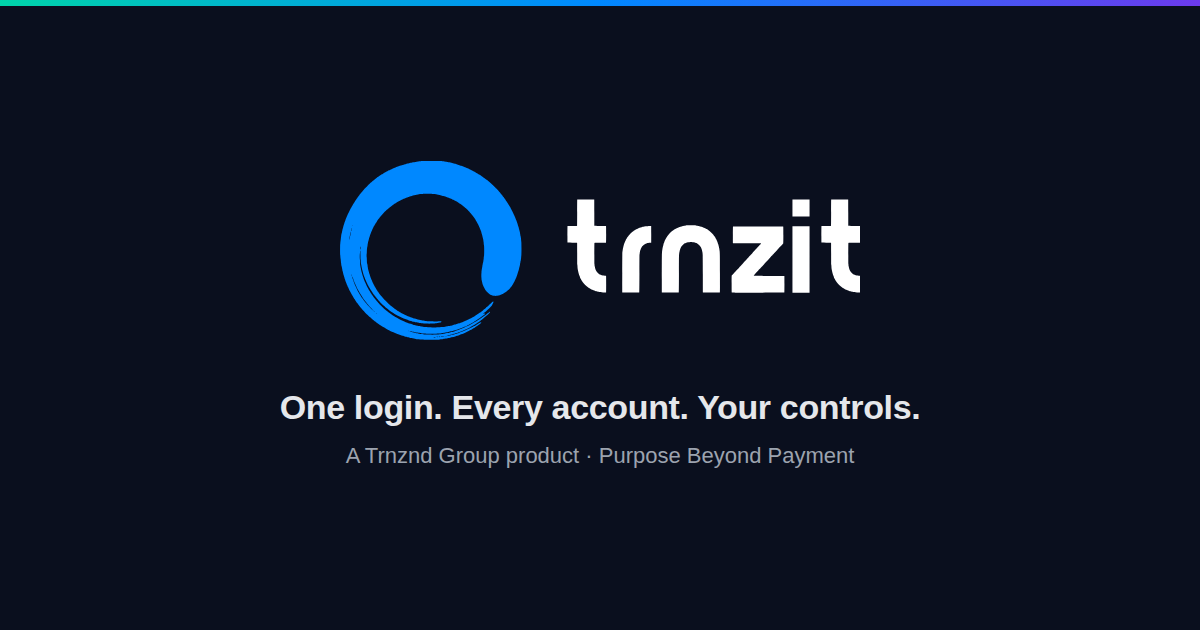
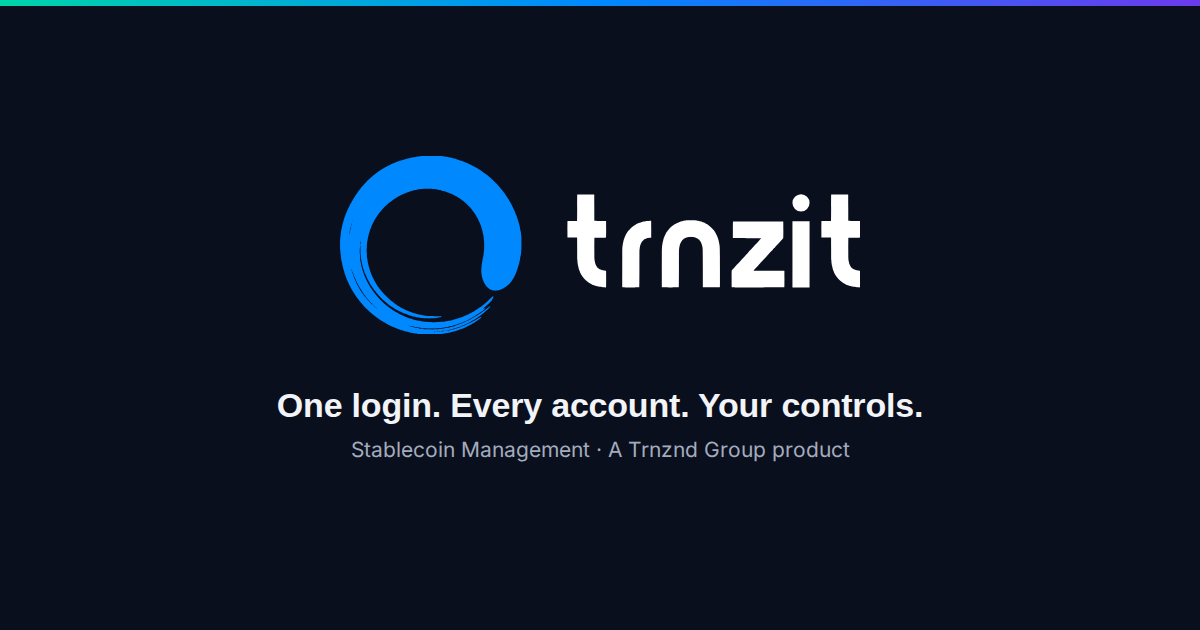
Add developer handover guide, placeholder inventory and refreshed OG image
HANDOVER.md covers hosting, build, server headers, unwired features,
placeholders and a pre-launch checklist. docs/placeholders.csv lists
every on-site placeholder. The OG image now uses the round-dot logo and
current positioning; README details brought up to date.

Claude-Session: https://claude.ai/code/session_01M8FVuStK3jo5WKpLgMWYhh

diff --git a/trnzit/HANDOVER.md b/trnzit/HANDOVER.md
@@ -1,0 +1,179 @@
+# Trnzit marketing site: developer handover
+
+This pack contains everything needed to host the Trnzit marketing site at `https://www.trnznd.io/trnzit/`. It's a static site: plain HTML, CSS and a small JavaScript file. It has no framework, no database, no server-side code and no third-party requests (fonts are self-hosted, and there's no analytics or tracking).
+
+If anything here conflicts with what you see in the code, the code is the source of truth. Please raise the conflict with the Trnzit team rather than guessing.
+
+## 1. What's in the pack
+
+| Folder / file | What it is | Do you need it to host? |
+|---|---|---|
+| `site/` | The finished, built website (a copy of `dist/`). Upload this as-is. | **Yes** |
+| `source/` | The editable source: `src/`, `build.mjs`, `tokens/`. Rebuild `site/` from this. | Yes, for any future edits |
+| `HANDOVER.md` | This document | Read first |
+| `README.md` | Project readme (structure, build, logo set, checks) | Reference |
+| `docs/placeholders.csv` | Every unfinished item shown on the site, with file and line number | **Yes, before launch** |
+| `docs/01-brand-guide-reading.md` | How the TRNZND Brand Guide V2.0 was applied | Reference |
+| `docs/02-placeholders-questions-assumptions.md` | Decisions log: every answer, assumption and open question | Reference |
+| `docs/03-removed-for-later.md` | Bank/card/invoicing content removed for now, to restore later | Reference |
+| `screenshots/desktop-1440/` | Full-page screenshot of every page at 1440px wide | Visual reference |
+| `screenshots/mobile-390/` | Full-page screenshot of every page at 390px wide (2x) | Visual reference |
+| `screenshots/states/` | Interactive states: Solutions menu, mobile menu, pricing monthly, FAQ open, form errors | Visual reference |
+| `graphics/` | Each diagram and product mock-up exported as a PNG (2x) | Reference only; the site uses live HTML/SVG versions |
+| `brand/logo-svg/` | Master SVG logo set (the files the site uses) | Reference / other uses |
+| `brand/logo-png/` | PNG exports of every logo, 512px and 2048px wide, transparent | For use outside the website |
+| `brand/design-tokens.json` | Colours, type, spacing, radii, motion, mapped to the brand guide | Reference |
+
+The screenshots and `graphics/` PNGs are reference images only. Every diagram, chart, mock-up and icon on the site is built in HTML, CSS and inline SVG, so nothing has to be cut from images.
+
+## 2. Hosting it (the short version)
+
+1. Copy the **contents** of `site/` into the `/trnzit/` folder of `www.trnznd.io`. Keep the folder structure exactly as it is.
+2. Configure the web server to serve `/trnzit/404.html` (with HTTP status 404) for missing URLs under `/trnzit/`. Its links are absolute, so it works at any depth.
+3. Add this line to the **group site's** root `robots.txt`, because crawlers only read `robots.txt` at the domain root:
+   `Sitemap: https://www.trnznd.io/trnzit/sitemap.xml`
+4. Serve over HTTPS only, and apply the headers in section 4.
+5. Work through the pre-launch checklist in section 8.
+
+All internal links are relative, so the site works at any path. Only the canonical, Open Graph and sitemap URLs contain the full address. If the slug or domain changes, rebuild (section 3) with the new `SITE_URL`.
+
+Pages are served as `.html` files (e.g. `/trnzit/pricing.html`). If you want extensionless URLs, add rewrites on the server; the built links will still point to `.html`, so keep both working.
+
+## 3. Building from source
+
+You need Node.js 18 or later and nothing else. There are no npm dependencies and no `npm install` step.
+
+```bash
+cd source
+node build.mjs                                  # writes ./dist
+SITE_URL=https://www.trnznd.io/trnzit GROUP_URL=https://www.trnznd.io node build.mjs   # explicit (these are the defaults)
+npx http-server dist -p 8080                     # preview locally (any static server works)
+```
+
+| Variable | Default | Controls |
+|---|---|---|
+| `SITE_URL` | `https://www.trnznd.io/trnzit` | Canonical tags, Open Graph image/URLs, `sitemap.xml`, `robots.txt`, 404 page links |
+| `GROUP_URL` | `https://www.trnznd.io` | "Back to trnznd.io" links in the group bar and menu |
+
+Never edit `dist/` by hand: edit `src/` and rebuild. The build:
+
+- assembles each page in `src/pages/` from front matter (title, description, nav state) plus shared partials in `src/partials/` (`{{> name}}`);
+- inlines icons (`{{icon:name}}`, from `src/partials/icons.mjs`) and the logo (`{{logo}}`, from `src/partials/logo-paths.json`);
+- bundles `tokens.css` + `site.css` into `assets/css/trnzit.min.css`;
+- copies fonts, images, logos and JS, and writes `sitemap.xml` and `robots.txt`.
+
+The `brand/logo.html` page is a logo review sheet. It's set to `noindex` and left out of the sitemap; you can delete it from the live site if you prefer.
+
+## 4. Recommended server settings
+
+**Caching.** File names aren't fingerprinted, so:
+
+- `*.html`, `sitemap.xml`, `robots.txt`: `Cache-Control: no-cache` (revalidate every time)
+- `assets/*` and `favicon.svg`: `Cache-Control: public, max-age=86400` (one day). Use longer only if you add fingerprinting to the build.
+
+**Compression.** Enable gzip or Brotli for HTML, CSS, JS, SVG and XML. Don't compress the `.woff2` font, which is already compressed.
+
+**MIME types.** Make sure `.woff2` is served as `font/woff2` and `.svg` as `image/svg+xml`.
+
+**Security headers** (suggested; check they don't clash with the group site's own policy):
+
+```
+Strict-Transport-Security: max-age=31536000; includeSubDomains
+X-Content-Type-Options: nosniff
+Referrer-Policy: strict-origin-when-cross-origin
+Permissions-Policy: camera=(), microphone=(), geolocation=()
+Content-Security-Policy: default-src 'self'; script-src 'self' 'sha256-Du+OJKJSbdUgz5nrHeWWINvez6XKDDU/tyj/5c2uvwo='; style-src 'self' 'unsafe-inline'; img-src 'self' data:; font-src 'self'; form-action 'self'; frame-ancestors 'self'; base-uri 'self'
+```
+
+Notes on the CSP:
+
+- **The hash:** each page has one tiny inline script, `document.documentElement.classList.add('js')`, which switches on the JavaScript-only styles. The hash above allows exactly that script. If you edit it, recalculate the hash.
+- **`'unsafe-inline'` for styles:** pages use inline `style` attributes (mostly animation delays such as `style="--d:60ms"`), so this is needed unless those are moved into classes.
+- **`form-action`:** when the contact form is connected (section 5), add the form endpoint's origin.
+
+## 5. Things that are NOT wired up yet (developer action needed)
+
+1. **Contact / free-trial form** (`contact.html`). It validates in the browser, but `action="#"` and the JavaScript stops submission and shows a "not yet connected" message. To connect it:
+   - point the form at a real endpoint (CRM, email service or the Trnzit app's sign-up API);
+   - replace the `status.textContent = …` placeholder at the end of `src/assets/js/site.js` with real submission and confirmation copy;
+   - add spam protection, and record consent from the terms checkbox.
+
+   Field names: `name`, `email`, `type` (organisation/individual), `organisation`, `plan` (free/business/premium/enterprise), `billing` (annual/monthly), `payment`, `terms`.
+2. **Plan pre-selection.** Every "Start free" and "Start 30-day free trial" button links to `contact.html?plan=<plan>&billing=<annual|monthly>`, and the form pre-selects from those parameters. If sign-up moves into the Trnzit app, change every link to `contact.html` (find them with `grep -rn 'contact.html' source/src`).
+3. **No "Sign in" link.** There's no link to the Trnzit app. Add one to `src/partials/header.html` once the app URL is known.
+4. **Email addresses.** Support, security and contact emails are placeholders (see the CSV).
+5. **Payment-method logos** (Visa, Mastercard, Google Pay, Apple Pay, PayPal, USDT, USDC) are simplified stand-ins in `src/partials/payment-logos.html`. Replace them with each brand's official artwork, used under that brand's guidelines, before launch.
+6. **Analytics and cookies.** None are installed. If you add any non-essential cookies or analytics, you'll need a consent mechanism first (UK PECR / EU ePrivacy), and the Cookies page must be updated.
+
+## 6. Placeholders on the live site
+
+Unfinished content is wrapped in `<span class="ph">…</span>` and shows on the site as a highlighted box, so nothing unconfirmed can go live unnoticed. `docs/placeholders.csv` lists all 55, with file and line number. They fall into these groups:
+
+- **Contact details:** support, security and contact emails; phone; legal entity name.
+- **Legal:** Terms, Privacy and Cookies pages are structured outlines awaiting counsel. There's also a legal review of the financial-promotion wording on the Trade & convert section and the Providers page.
+- **Technical sign-off:** the draft security practices (dashed box on Security & Governance, and one FAQ answer), API scopes per provider, authentication options, export formats.
+- **Product scope:** which plans include multi-sig wallets and trading ("To confirm" cells in the pricing table), supported custodians, stablecoins per network, accepted USDT/USDC payment networks, role names.
+- **Billing:** VAT/sales-tax treatment, how cancellation notice is given.
+
+**Before launch, every `class="ph"` must be resolved or removed.** A quick check: `grep -rn 'class="ph"' source/src` should return nothing.
+
+## 7. Page and component map
+
+| Page | File | Notes |
+|---|---|---|
+| Home | `src/pages/index.html` | Hero with balances mock-up, capabilities grid, architecture diagram, governance, plans (monthly by default) |
+| Platform | `src/pages/platform.html` | 8 numbered capability sections with sticky sub-nav |
+| Security & Governance | `src/pages/security.html` | Principles, "never do" list, governance controls, draft practices box |
+| Pricing | `src/pages/pricing.html` | 4 plan cards (annual by default), main and per-card Annual/Monthly switches, comparison table, billing terms |
+| Providers | `src/pages/providers.html` | Multi-sig (Safe, Squads), exchanges, on/off-ramps, information-only disclosure |
+| For organisations / individuals | `organisations.html`, `individuals.html` | Audience pages |
+| FAQ | `src/pages/faq.html` | Native `<details>` accordions |
+| About, Contact, 404 | `about.html`, `contact.html`, `404.html` | |
+| Legal | `src/pages/legal/*.html` | Placeholders for counsel |
+
+Shared partials in `src/partials/`:
+
+- `head.html` (meta tags, group bar), `header.html` (logo, descriptor "Stablecoin Management, by Trnznd", navigation), `footer.html` (including the legal disclaimer), `cta.html`.
+- `diagram.html` (architecture diagram: desktop SVG/HTML version plus a stacked mobile version).
+- The `mock-*.html` product mock-ups, all labelled "Illustrative data" with fictional names. `mock-invoice.html` is unused and kept for later.
+- `payment-logos.html`.
+
+**Behaviour** (`src/assets/js/site.js`, no dependencies):
+
+- the mobile menu (shown at 1280px and below), the Solutions dropdown, and sticky-header offset;
+- scroll reveals and the count-up on the balance figure;
+- the pricing switches, which update prices, notes and trial links, and announce changes to screen readers;
+- form validation and plan pre-selection.
+
+All motion is switched off when the visitor's system asks for reduced motion.
+
+**Design system:** `src/assets/css/tokens.css` (CSS custom properties, mirrored in `tokens/design-tokens.json`) and `src/assets/css/site.css`.
+
+- **Colours:** Midnight `#0A0F1E`, Teal `#00D4AA`, Electric Blue `#0088FF`, Violet `#6C3AED`.
+- **Fonts:** headings use the system Helvetica stack; UI and body text use Inter, self-hosted under the SIL Open Font License (licence file included in `assets/fonts/`).
+- **Text contrast:** Teal is never used for text on white, because it fails contrast.
+
+## 8. Pre-launch checklist
+
+- [ ] All placeholders resolved: `grep -rn 'class="ph"' source/src` returns nothing; rebuild.
+- [ ] Contact/trial form connected, tested end to end, with spam protection.
+- [ ] Official payment logos in place.
+- [ ] Legal pages approved by counsel; financial-promotion wording reviewed.
+- [ ] Security practices signed off by the technical team.
+- [ ] Rebuilt with the final `SITE_URL`; `sitemap.xml` URLs and canonical tags checked.
+- [ ] 404 handling, HTTPS, headers and caching configured; group `robots.txt` updated.
+- [ ] Open Graph preview checked (e.g. by pasting a page link into LinkedIn or Slack). The image is `assets/img/og-image.png` (1200×630).
+- [ ] Spot-check against `screenshots/` on desktop, tablet and phone, with keyboard-only navigation.
+- [ ] Re-run accessibility (axe) and Lighthouse checks on the live URL.
+
+## 9. Quality checks already run (on this build, local server)
+
+- **axe-core (WCAG 2.2 A/AA):** 0 violations on all pages and on the open mobile menu.
+- **Overflow:** no sideways scrolling on the 390px, 768px and 1440px pages checked; the header fits from 320px to 1920px.
+
+  **Known exception:** at 320px (the smallest, oldest phones), the home page hero and the pricing comparison table run slightly wider than the screen. This was noted earlier and has not been fixed yet.
+- **Lighthouse 12.8** (earlier build, Home/Platform/Pricing): 98–100 Performance, 100 Accessibility, 100 Best Practices, 100 SEO. Live scores depend on hosting.
+
+## 10. Contacts and decisions
+
+The decisions log (`docs/02-placeholders-questions-assumptions.md`) records every content decision made with the Trnzit team, including pricing, trial terms, supported chains and stablecoins, and alert behaviour. Content questions go to the Trnzit team, not to be resolved in code.

diff --git a/trnzit/README.md b/trnzit/README.md
@@ -1,6 +1,8 @@
 # Trnzit marketing site
 
-A static, multi-page marketing site for **Trnzit**, a treasury management platform from the Trnznd Group. It's built in plain HTML, CSS and JS with a zero-dependency Node build script.
+A static, multi-page marketing site for **Trnzit**, a treasury management platform from the Trnznd Group, currently focused on stablecoins.
+
+**Developers taking over hosting: start with [`HANDOVER.md`](HANDOVER.md).** It's built in plain HTML, CSS and JS with a zero-dependency Node build script.
 
 ## Quick start
 
@@ -46,7 +48,7 @@ trnzit/
 
 ## Pages
 
-Home · Platform (8 capability sections) · Security &amp; Governance · Pricing · For organisations · For individuals · FAQ · About · Contact / Start free trial · Legal (Terms, Privacy, Cookies placeholders) · 404 · `brand/logo.html` (logo review sheet, noindex).
+Home · Platform (8 capability sections) · Security &amp; Governance · Pricing · Providers · For organisations · For individuals · FAQ · About · Contact / Start free trial · Legal (Terms, Privacy, Cookies placeholders) · 404 · `brand/logo.html` (logo review sheet, noindex).
 
 ## Logo set (`src/assets/logo/`)
 
@@ -56,9 +58,8 @@ Home · Platform (8 capability sections) · Security &amp; Governance · Pricing
 | `trnzit-stacked-light.svg` / `-dark.svg` | Square formats, social profiles |
 | `trnzit-wordmark-light.svg` / `-dark.svg` | Wordmark only |
 | `trnzit-symbol.svg`, `favicon.svg` | Enso only: favicon, app icon, anything under 80px wide |
-| `*-i-option-b.svg` | Alternative "i" (round dot), for approval only |
 
-The Enso is the Trnznd symbol with its geometry unchanged, filled solid Electric Blue `#0088FF`. The letters "t", "r", "n" and "z" were traced from the supplied artwork. The "i" is newly drawn and **awaits approval** (see `brand/logo.html`).
+The Enso is the Trnznd symbol with its geometry unchanged, filled solid Electric Blue `#0088FF`. The letters "t", "r", "n" and "z" were traced from the supplied artwork. The "i" uses a round dot (approved).
 
 ## Quality checks run
 
